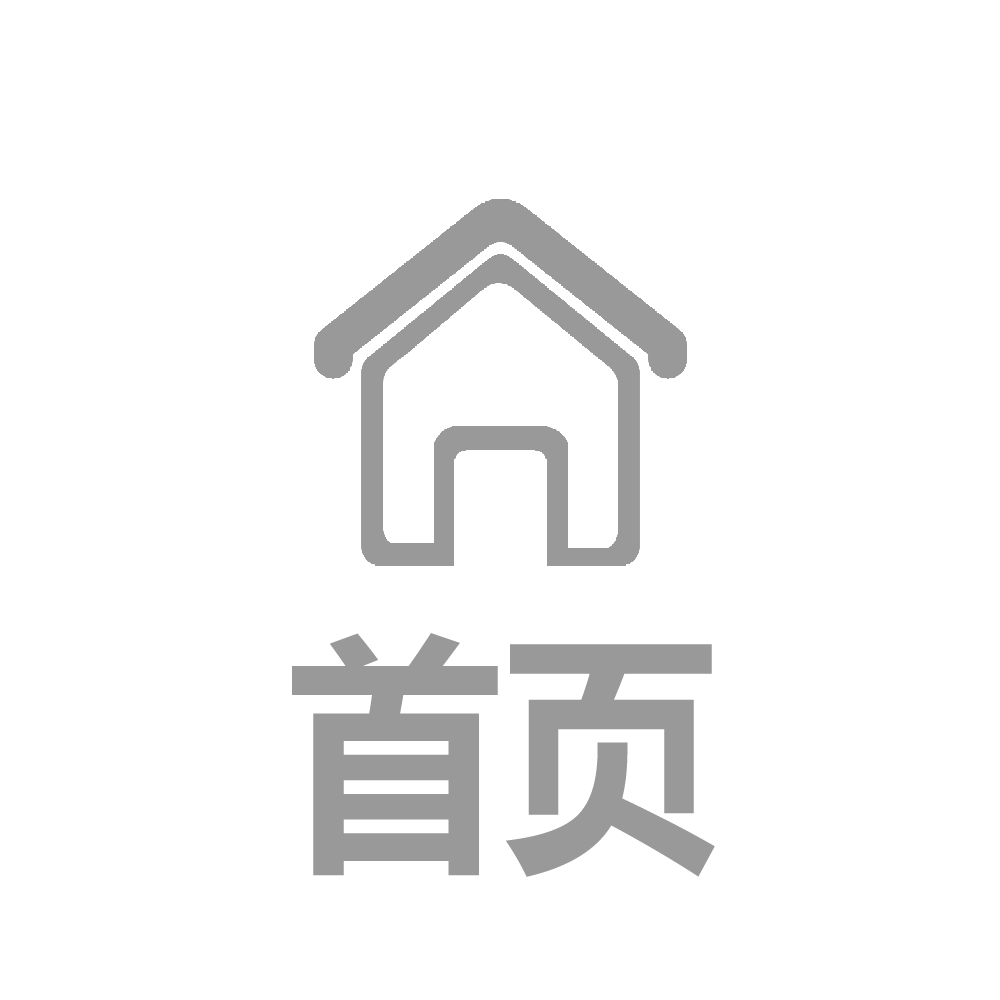
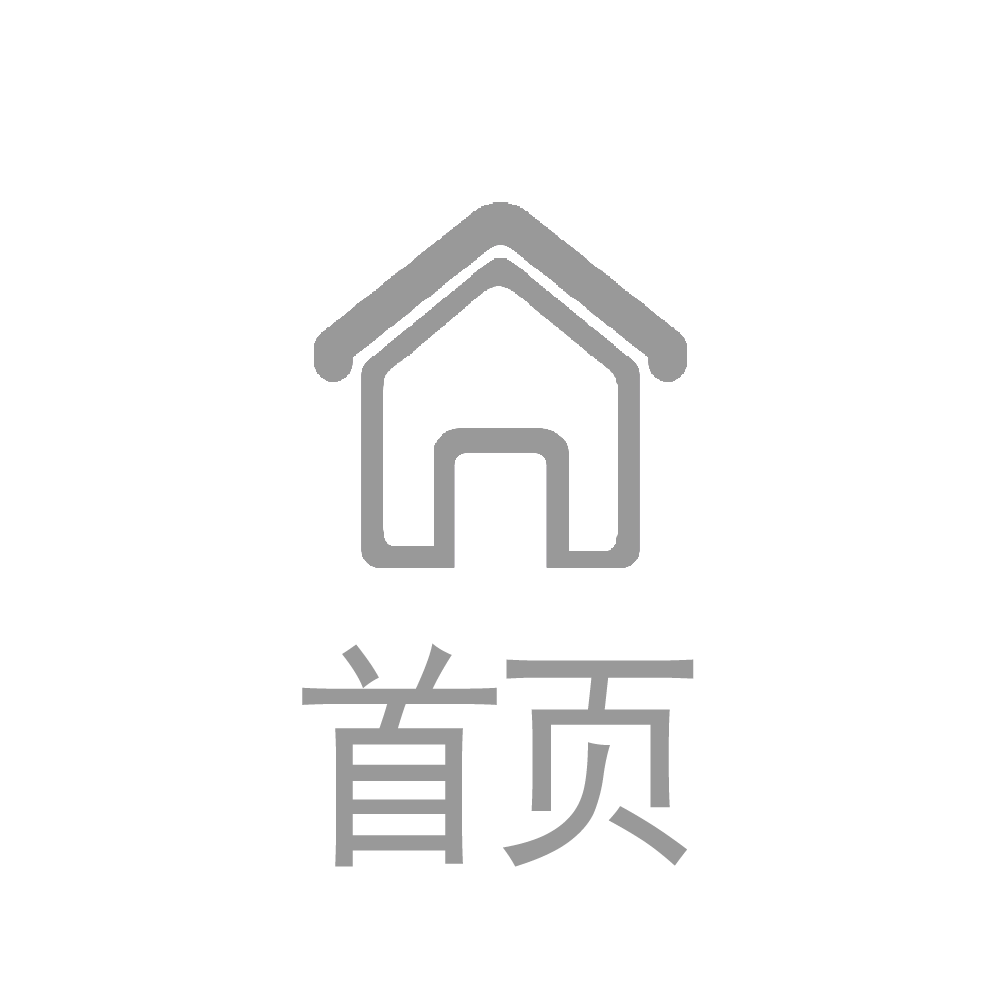
增加搜索页面和更新导航栏图标

diff --git a/Home/css/Home.css b/Home/css/Home.css
@@ -10,35 +10,37 @@
 
 .headerNav{
     width:100%;
-    height: 40px;
+    height: 44px;
     z-index: 999;
     position: sticky;
     top:0;
     left:0;
     background: linear-gradient(to top right,#3b2667 0%, #bc78ec 100%);
+    display: flex;
+    justify-content: center;
+    align-items: center;
 }
 .icon{
     width:11%;
-    height:40px;
-    float: left;
+    height:45px;
     display: inline-block;
     background: url("../image/saoyisao.png") no-repeat;
-    background-size: 100% 90%;
+    background-size: 110% 90%;
     background-position: center center;
 }
 .header_nav{
     width: 78%;
-    height:40px;
-    float: left;
+    height:45px;
+    display: flex;
+    justify-content: center;
+    align-items: center;
 }
 .header_nav input{
     width: 100%;
-    height: 25px;
-    /*line-height: 25px;*/
+    height: 30px;
     border-radius: 15px;
-    margin: 7px 0 0 0;
-    padding-left: 25px;
-    font-size: 12px;
+    padding-left: 10px;
+    font-size: 14px;
     text-align: left;
     border: none;
     outline: none;
@@ -46,55 +48,35 @@
     justify-content: center;
     align-items: center;
 }
-.icon_search{
-    width:20px;
-    height: 20px;
-    float: left;
-    position: absolute;
-    top: 12px;
-    left: 12.5%;
-}
-.enter{
-    width: 84%;
-    height: 35px;
-    border-radius: 20px;
-    margin: 2.5px 0 0 10px;
-}
-.header_nav_image{
-    width: 25px;
-    height: 20px;
+.header_nav_icon{
+    width:45px;
+    height: 45px;
     display: inline-block;
-    background:url("../image/xaingji.png") no-repeat;
-    background-size: 23px 23px;
-    background-position: center center;
+    background: url("../../images/search@2x.png");
+    background-repeat: no-repeat;
+    background-size: 27px 27px;
+    background-position: 70% center;
     position: absolute;
-    top:10px;
-    right: 13%;
-}
-.fdj{
-    width: 35px;
-    height: 35px;
-    display: inline-block;
-    background: url("../../images/sprites.png") no-repeat;
-    background-position: -161px 3px;
+    top: 0;
+    right: 11%;
 }
 .header_right{
     width: 11%;
-    height:40px;
+    height:44px;
+    display: inline-block;
     float: left;
     font-size: 15px;
     color:#ffffff;
     text-align: center;
     line-height: 40px;
     background: url("../image/huiyuanma.png") no-repeat;
-    background-size: 30px 30px;
+    background-size: 35px 35px;
     background-position: center center;
 }
 .header_right_icon{
     width: 20px;
     height: 20px;
     display: inline-block;
-
 }
 
 
@@ -669,9 +651,9 @@
 
 
 
-[class^="icon_"]{
-    background: url("../../images/sprites.png") no-repeat;
-    -webkit-background-size:200px 200px;
-    background-size:230px 230px;
-    background-position: -96px 0;
-}
+/*[class^="icon_"]{*/
+    /*background: url("../../images/sprites.png") no-repeat;*/
+    /*-webkit-background-size:200px 200px;*/
+    /*background-size:230px 230px;*/
+    /*background-position: -93px 2px;*/
+/*}*/

diff --git a/Home/script/Home.js b/Home/script/Home.js
@@ -1,22 +1,4 @@
-$('.icon')[0].addEventListener('click',function(){
-//            window.location.href = "../landing/Landing.html";
-    alert('跳转扫一扫');
-});
 
-// $('.icon_search')[0].addEventListener('click',function(){
-// //            window.location.href = "../Mine/registered.html";
-//     alert('跳转搜索');
-// });
-//
-// $('.header_nav_image')[0].addEventListener('click',function(){
-// //            window.location.href = "../Mine/registered.html";
-//     alert('跳转搜索2');
-// });
-//
-// $('.header_right_icon')[0].addEventListener('click',function(){
-// //            window.location.href = "../Mine/registered.html";
-//     alert('跳转搜索2');
-// });
 
 window.onload = function () {
     banner();
@@ -41,8 +23,6 @@ window.onload = function () {
             }
         },10);
     };
-
-
 
 };
 
@@ -169,11 +149,11 @@ $(function () {
         if(hh< 10){
             $('.body_time_span1').text(0);
             $('.body_time_span2').text(hh);
-
         }else {
             $('.body_time_span1').text(Math.floor(hh / (10)));
             $('.body_time_span2').text(hh % 10);
         }
+
         if(mm< 10){
             $('.body_time_span3').text(0);
             $('.body_time_span4').text(mm);
@@ -181,6 +161,7 @@ $(function () {
             $('.body_time_span3').text(Math.floor(mm / (10)));
             $('.body_time_span4').text(mm % 10);
         }
+
         if(ss< 10){
             $('.body_time_span5').text(0);
             $('.body_time_span6').text(ss);
@@ -190,11 +171,28 @@ $(function () {
         }
     }
 
-
     $('.list_btn')[0].addEventListener('click',function () {
         $('.loading').show();
         setTimeout(function () {
             $('.loading').hide();
         }, 3000);
-    })
+    });
+
+
+
+    $('.icon')[0].addEventListener('click',function(){
+        alert('跳转扫一扫');
+    });
+
+    $('.header_nav_icon')[0].addEventListener('click',function () {
+        alert('放大镜');
+    });
+
+    $('.header_right')[0].addEventListener('click',function(){
+        alert('扫码');
+    });
+
+    $('.header_nav>input')[0].onkeyup = function () {
+        alert(123)
+    }
 });

diff --git a/Home/searchFor.html b/Home/searchFor.html
@@ -1,0 +1,38 @@
+<!DOCTYPE html>
+<html lang="en">
+<head>
+    <meta charset="UTF-8">
+    <title>搜索</title>
+    <meta name="viewport" content="width=device-width, initial-scale=1, maximum-scale=1.0" />
+    <link rel="stylesheet" href="../style/base.css">
+    <link rel="stylesheet" href="../style/shared.css">
+    <link rel="stylesheet" href="./css/searchFor.css">
+</head>
+<body>
+
+<div id="box">
+    <div class="header">
+        <p class="left"></p>
+        <p class="center">
+            <input type="enter" placeholder="搜索商品/店铺">
+            <span class="xiangJi"></span>
+        </p>
+        <p class="right">
+            <span class="searchFor">搜索</span>
+        </p>
+    </div>
+</div>
+
+</body>
+<script>
+    var arr = window.location.href.split('=')[1];
+    console.log(arr);
+    var obj = '';
+    for(var i=0; i<arr.length; i++){
+        var key = arr[i].split('?')[0];
+        obj[key] = arr[i].split('?')[1];
+    }
+
+    console.log(key);
+</script>
+</html>

diff --git a/Home/css/searchFor.css b/Home/css/searchFor.css
@@ -1,0 +1,43 @@
+
+.header{
+    background-color: #f0f0f0;
+}
+.center input{
+    width: 100%;
+    height: 30px;
+    border-radius: 15px;
+    padding-left: 10px;
+    font-size: 14px;
+    text-align: left;
+    border: none;
+    outline: none;
+    display: flex;
+    justify-content: center;
+    align-items: center;
+}
+
+.xiangJi{
+    width: 40px;
+    height: 43px;
+    display: inline-block;
+    background: url("../image/xaingji.png");
+    background-repeat: no-repeat;
+    background-size: 30px 30px;
+    background-position: center center;
+    position: absolute;
+    top:0;
+    right:16%;
+}
+
+.searchFor{
+    width: 45px;
+    height: 27px;
+    background-image: linear-gradient(to right, rgb(198, 115, 255), rgb(147, 59, 255));
+    font-size: 13px;
+    color: #FFFFFF;
+    text-align: center;
+    border-radius: 15px;
+    display: flex;
+    justify-content: center;
+    align-items: center;
+}

diff --git a/Home/Home.html b/Home/Home.html
@@ -21,13 +21,10 @@
     <div class="headerNav">
         <span class="icon"></span>
         <div class="header_nav">
-            <span class="icon_search"></span>
             <input type="enter" placeholder="搜索商品/店铺">
-            <span class="header_nav_image"></span>
+            <span class="header_nav_icon"></span>
         </div>
-        <div class="header_right">
-            <span class="header_right_icon"></span>
-        </div>
+        <span class="header_right"></span>
     </div>
 
     <!--轮播图-->
@@ -502,5 +499,7 @@
 <script src="../script/jquery-3.2.1.js"></script>
 <script src="../script/shared.js"></script>
 <script src="script/Home.js"></script>
-<script></script>
+<script>
+
+</script>
 </html>

diff --git a/Mine/Recharge/Recharge.html b/Mine/Recharge/Recharge.html
@@ -55,6 +55,7 @@
         .check{
             background-color: #4077FF;
             color: #ffffff;
+            border:0;
         }
 
         .Recharge_footer{
